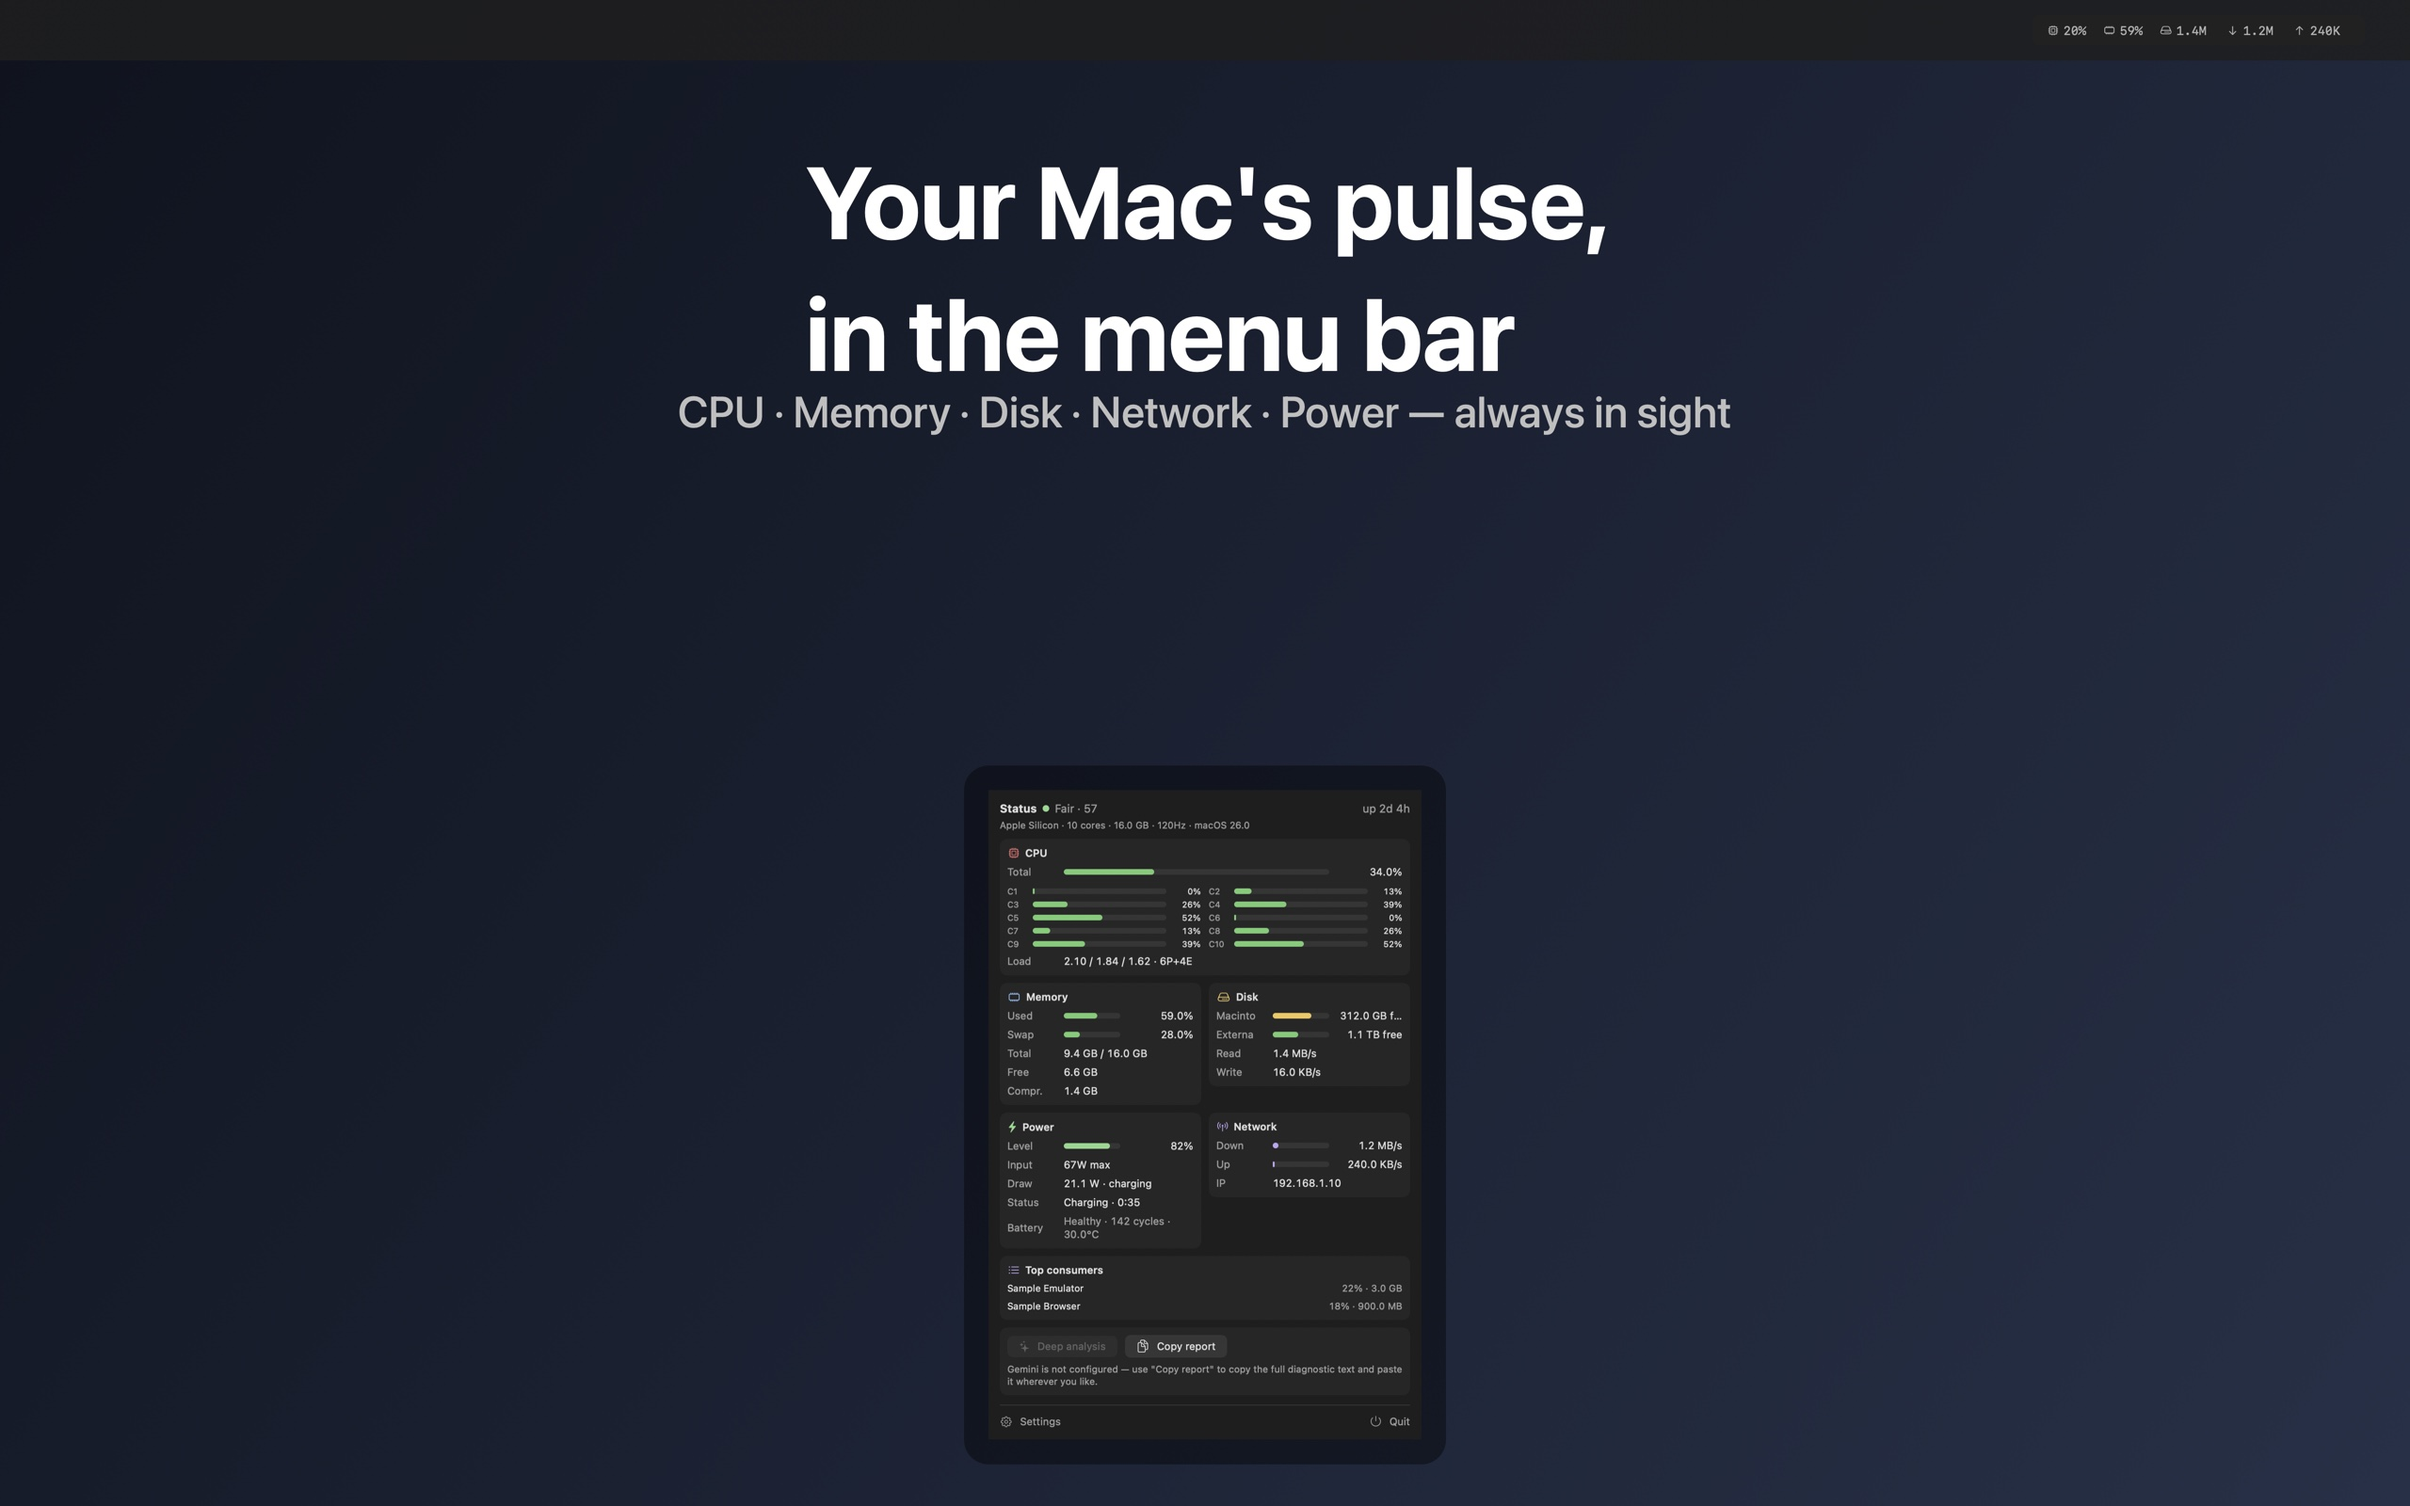
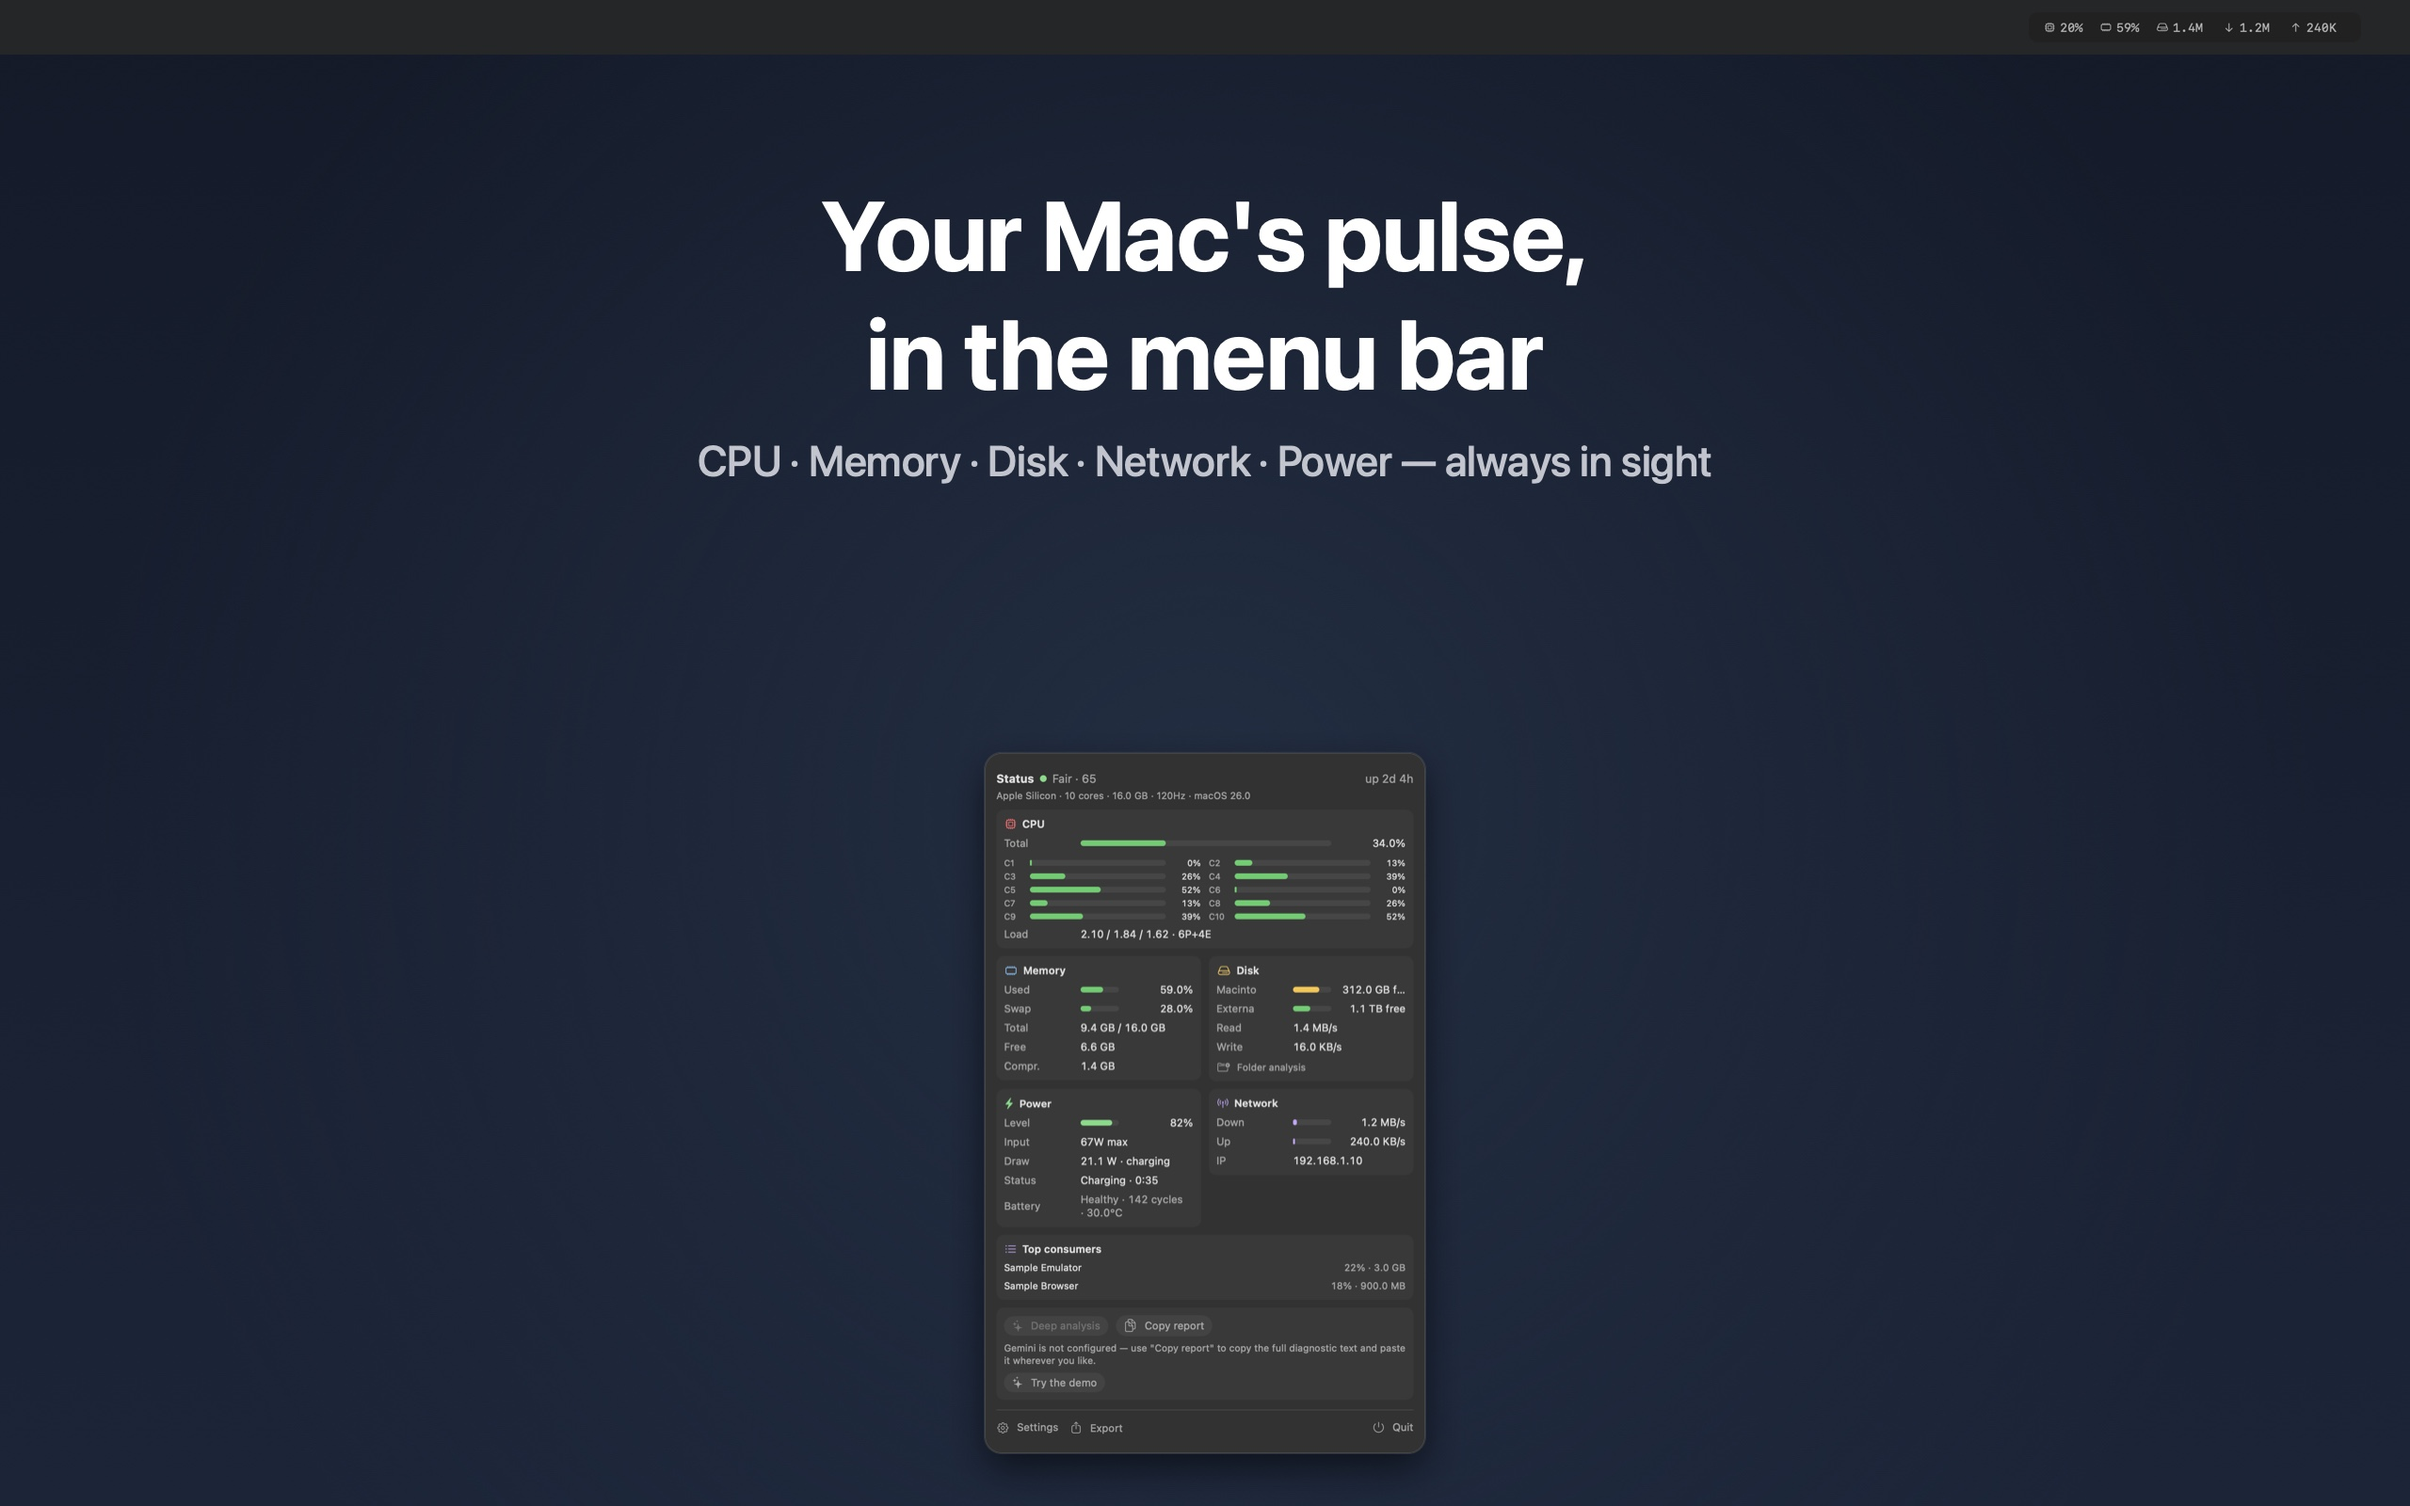
Refresh store screenshots so each locale shows one language
The Mac App Store frames still embedded the mixed-language panel from the 2.1(a) rejection. Regenerated the six 2560×1600 mockups from mock data. Snapshot export draws a plain label because ImageRenderer cannot draw a Menu.

diff --git a/Sources/StatusAppBar/Views/AlertsSection.swift b/Sources/StatusAppBar/Views/AlertsSection.swift
@@ -100,22 +100,33 @@ struct DeepAnalysisSection: View {
     var body: some View {
         VStack(alignment: .leading, spacing: 6) {
             HStack(spacing: 8) {
-                Button {
-                    openChat()
-                } label: {
-                    Label(advisor.hasConversation
-                          ? String(localized: "Sohbeti aç")
-                          : String(localized: "Derin analiz"),
-                          systemImage: "sparkles")
-                        .font(.system(size: 11))
-                }
-                .disabled(!settings.aiConfigured)
+                // ImageRenderer bordered Button çizemez (sarı yasak simgesi).
+                // --make-docs etiket basar; çalışan uygulamada düğme durur.
+                if SnapshotRenderer.exporting {
+                    snapshotChip(advisor.hasConversation
+                                 ? String(localized: "Sohbeti aç")
+                                 : String(localized: "Derin analiz"),
+                                 systemImage: "sparkles",
+                                 dimmed: !settings.aiConfigured)
+                    snapshotChip(String(localized: "Raporu kopyala"), systemImage: "doc.on.doc")
+                } else {
+                    Button {
+                        openChat()
+                    } label: {
+                        Label(advisor.hasConversation
+                              ? String(localized: "Sohbeti aç")
+                              : String(localized: "Derin analiz"),
+                              systemImage: "sparkles")
+                            .font(.system(size: 11))
+                    }
+                    .disabled(!settings.aiConfigured)
 
-                Button {
-                    advisor.copyReport(snapshot: metrics.snapshot(), alerts: metrics.alerts)
-                } label: {
-                    Label("Raporu kopyala", systemImage: "doc.on.doc")
-                        .font(.system(size: 11))
+                    Button {
+                        advisor.copyReport(snapshot: metrics.snapshot(), alerts: metrics.alerts)
+                    } label: {
+                        Label("Raporu kopyala", systemImage: "doc.on.doc")
+                            .font(.system(size: 11))
+                    }
                 }
 
                 Spacer()
@@ -136,12 +147,16 @@ struct DeepAnalysisSection: View {
 
                 // Anahtarsız tam tur: sağlayıcıyı demo'ya çekip sohbeti açar.
                 // App Review'ın 2.1(a) "demonstration mode" isteğinin girişi.
-                Button {
-                    settings.aiProviderRaw = AIProvider.demo.rawValue
-                    openChat()
-                } label: {
-                    Label("Demo dene", systemImage: "sparkles")
-                        .font(.system(size: 11))
+                if SnapshotRenderer.exporting {
+                    snapshotChip(String(localized: "Demo dene"), systemImage: "sparkles")
+                } else {
+                    Button {
+                        settings.aiProviderRaw = AIProvider.demo.rawValue
+                        openChat()
+                    } label: {
+                        Label("Demo dene", systemImage: "sparkles")
+                            .font(.system(size: 11))
+                    }
                 }
             }
 
@@ -170,6 +185,17 @@ struct DeepAnalysisSection: View {
     /// `NSApp.activate` şart: uygulama `LSUIElement` (accessory) olduğu için
     /// pencere açmak onu öne getirmez — arkada açılır ve kullanıcı hiçbir şey
     /// olmadı sanır.
+    /// `title` çağrı yerinde `String(localized:)` ile çevrilmiş olmalı.
+    /// ImageRenderer bordered `Button` çizemediği için düz kapsül basılır.
+    private func snapshotChip(_ title: String, systemImage: String, dimmed: Bool = false) -> some View {
+        Label(title, systemImage: systemImage)
+            .font(.system(size: 11))
+            .foregroundStyle(dimmed ? AnyShapeStyle(.tertiary) : AnyShapeStyle(.secondary))
+            .padding(.horizontal, 8)
+            .padding(.vertical, 3)
+            .background(Color.primary.opacity(0.06), in: Capsule())
+    }
+
     private func openChat() {
         advisor.start(snapshot: metrics.snapshot(), alerts: metrics.alerts)
         openWindow(id: StatusAppBarApp.deepAnalysisWindowID)

diff --git a/Sources/StatusAppBar/App.swift b/Sources/StatusAppBar/App.swift
@@ -67,9 +67,19 @@ final class AppDelegate: NSObject, NSApplicationDelegate {
 /// README görsellerini mock veriyle render eder. Gerçek makineden hiçbir
 /// veri (IP, donanım, disk adı vb.) kullanmaz.
 enum SnapshotRenderer {
+    /// `ImageRenderer` bir `Menu` çizemez; sarı yasak simgesi basar.
+    /// Yalnızca `--make-docs` bunu açar. Çalışan uygulamada CSV/JSON menüsü durur.
+    static var exporting = false
+
+    /// Mağaza karesi 2560×1600 çerçeveye sığsın diye alttaki uzun bölümleri atlar.
+    /// Canlı panelde GPU, sensör, ani yükseliş ve sağlık geçmişi durur.
+    static var storefront = false
+
     @MainActor
     static func makeDocs(dir: String) {
         NSApp.appearance = NSAppearance(named: .darkAqua)
+        exporting = true
+        defer { exporting = false; storefront = false }
 
         let settings = AppSettings()
         let saved = (settings.showCPU, settings.showRAM, settings.showDisk,
@@ -80,18 +90,18 @@ enum SnapshotRenderer {
         settings.showNetwork = true
         settings.showIcons = true
         settings.menuBarMode = .full
+        #if MAS
+        // Kullanıcının anahtarını diske yazmadan "Gemini ayarlanmamış" hâlini göster.
+        settings.snapshotUnconfigured = true
+        #endif
 
-        writePNG(
-            ZStack {
-                Color(nsColor: .windowBackgroundColor)
-                PopoverContent()
-                    .environment(MetricsManager.mock(cpuTotal: 0.34))
-                    .environment(settings)
-            }
-            .fixedSize()
-            .environment(\.colorScheme, .dark),
-            to: dir + "/popover.png"
-        )
+        writePNG(popoverImage(settings), to: dir + "/popover.png")
+
+        if CommandLine.arguments.contains("--storefront") {
+            storefront = true
+            writePNG(popoverImage(settings), to: dir + "/storefront.png")
+            storefront = false
+        }
 
         writePNG(barStrip(MetricsManager.mock(cpuTotal: 0.20), settings),
                  to: dir + "/menubar.png")
@@ -101,6 +111,18 @@ enum SnapshotRenderer {
 
         (settings.showCPU, settings.showRAM, settings.showDisk,
          settings.showNetwork, settings.showIcons, settings.menuBarMode) = saved
+    }
+
+    @MainActor
+    private static func popoverImage(_ settings: AppSettings) -> some View {
+        ZStack {
+            Color(nsColor: .windowBackgroundColor)
+            PopoverContent()
+                .environment(MetricsManager.mock(cpuTotal: 0.34))
+                .environment(settings)
+        }
+        .fixedSize()
+        .environment(\.colorScheme, .dark)
     }
 
     @MainActor

diff --git a/Sources/StatusAppBar/Views/PopoverView.swift b/Sources/StatusAppBar/Views/PopoverView.swift
@@ -78,20 +78,23 @@ struct PopoverContent: View {
                 NetworkSection()
             }
 
-            HStack(alignment: .top, spacing: 8) {
-                GPUSection()
-                // Isınma nedeni uyarı beklenmeden sürekli görünür — kullanıcı
-                // "neden ısınıyor" sorusunun cevabını burada görür.
-                ThermalSection()
-            }
+            if !SnapshotRenderer.storefront {
+                HStack(alignment: .top, spacing: 8) {
+                    GPUSection()
+                    // Isınma nedeni uyarı beklenmeden sürekli görünür — kullanıcı
+                    // "neden ısınıyor" sorusunun cevabını burada görür.
+                    ThermalSection()
+                }
 
-            SensorSection()
+                SensorSection()
+            }
 
             TopProcessesSection()
 
-            SpikeLogSection()
-
-            HealthHistorySection()
+            if !SnapshotRenderer.storefront {
+                SpikeLogSection()
+                HealthHistorySection()
+            }
 
             #if MAS
             // Derin analiz yalnızca ücretli App Store sürümünde (BuildVariant).
@@ -605,16 +608,22 @@ private struct FooterBar: View {
             .buttonStyle(.plain)
             .foregroundStyle(.secondary)
 
-            Menu {
-                Button("CSV") { Exporter.export(metrics: metrics, format: .csv) }
-                Button("JSON") { Exporter.export(metrics: metrics, format: .json) }
-            } label: {
+            if SnapshotRenderer.exporting {
                 Label(String(localized: "Dışa Aktar"), systemImage: "square.and.arrow.up")
                     .font(.system(size: 11))
+                    .foregroundStyle(.secondary)
+            } else {
+                Menu {
+                    Button("CSV") { Exporter.export(metrics: metrics, format: .csv) }
+                    Button("JSON") { Exporter.export(metrics: metrics, format: .json) }
+                } label: {
+                    Label(String(localized: "Dışa Aktar"), systemImage: "square.and.arrow.up")
+                        .font(.system(size: 11))
+                }
+                .menuStyle(.borderlessButton)
+                .frame(width: 90)
+                .foregroundStyle(.secondary)
             }
-            .menuStyle(.borderlessButton)
-            .frame(width: 90)
-            .foregroundStyle(.secondary)
 
             Spacer()
 

diff --git a/Sources/StatusAppBar/AppSettings.swift b/Sources/StatusAppBar/AppSettings.swift
@@ -87,11 +87,19 @@ final class AppSettings {
     var lmstudioURL: String { didSet { save(lmstudioURL, "lmstudioURL") } }
     var lmstudioModel: String { didSet { save(lmstudioModel, "lmstudioModel") } }
 
-    var aiProvider: AIProvider { AIProvider(rawValue: aiProviderRaw) ?? .gemini }
+    /// `--make-docs` mağaza karesi. Anahtarı UserDefaults'a yazmadan
+    /// "ayarlanmamış" cümlesini gösterir.
+    var snapshotUnconfigured = false
+
+    var aiProvider: AIProvider {
+        if snapshotUnconfigured { return .gemini }
+        return AIProvider(rawValue: aiProviderRaw) ?? .gemini
+    }
 
     /// Seçili sağlayıcı sohbet başlatmaya hazır mı (buton enable + ipucu
     /// metinleri bunu kullanır).
     var aiConfigured: Bool {
+        if snapshotUnconfigured { return false }
         switch aiProvider {
         case .gemini:    return !geminiAPIKey.isEmpty
         case .anthropic: return !anthropicAPIKey.isEmpty && !anthropicModel.isEmpty
